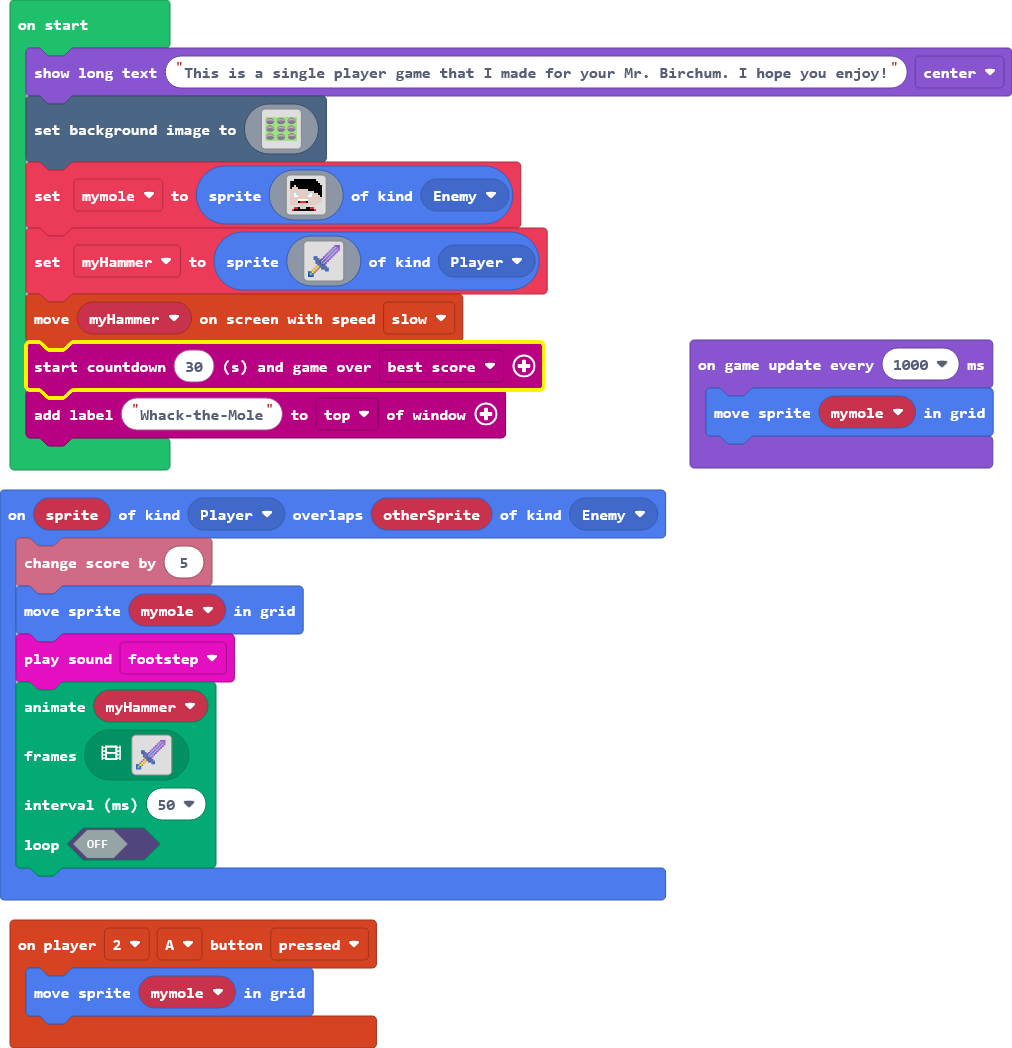
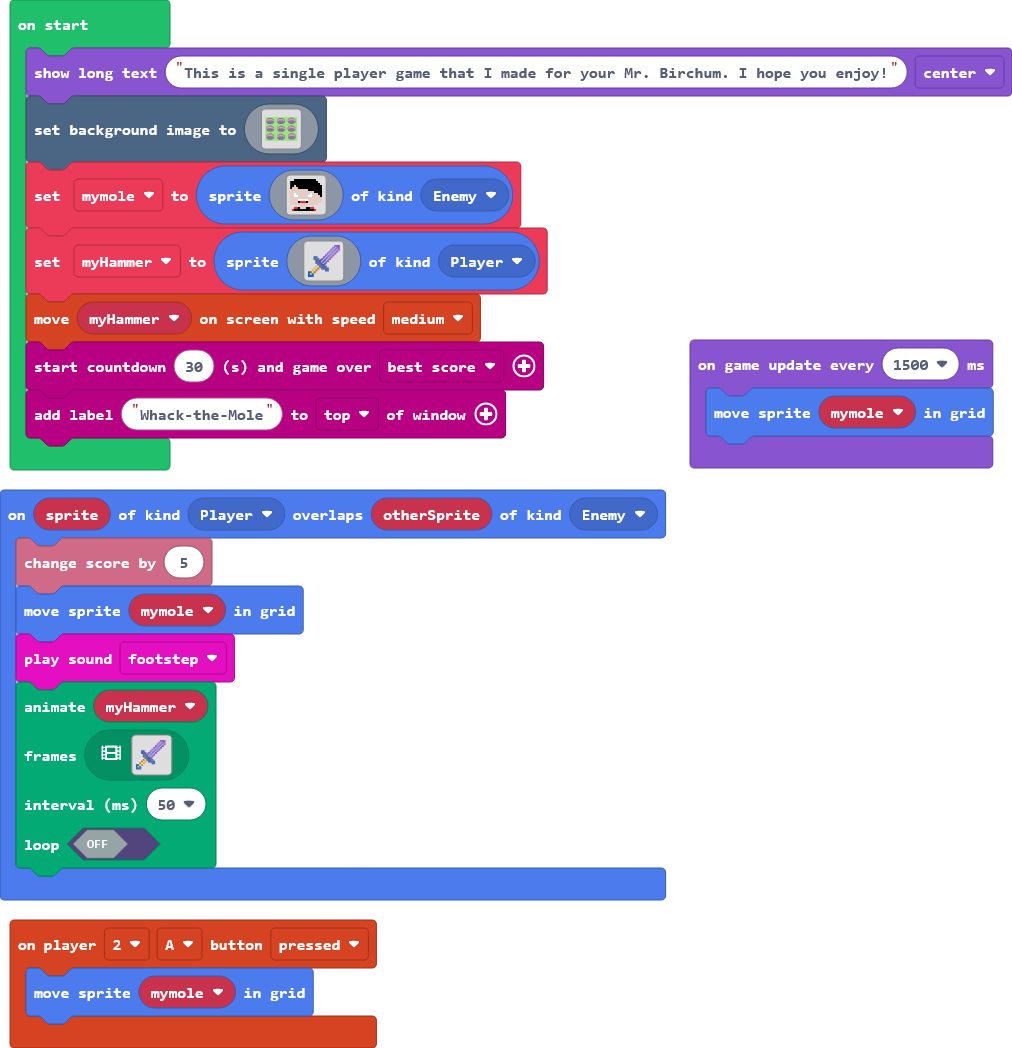
made hammer faster and moles slower

Changed region(s): [[0.0306, 0.2748, 0.5514, 0.3664], [0.0306, 0.3664, 0.5208, 0.3969], [0.0, 0.3359, 0.0306, 0.3664]]

diff --git a/main.ts b/main.ts
@@ -333,9 +333,9 @@ game.showLongText("This is a single player game that I made for your Mr. Birchum
 scene.setBackgroundImage(assets.image`grid`)
 mymole = sprites.create(assets.image`mole`, SpriteKind.Enemy)
 myHammer = sprites.create(assets.image`hammer`, SpriteKind.Player)
-simplified.moveOnlyOnscreenWithArrows(myHammer, simplified.Speeds.Slow)
+simplified.moveOnlyOnscreenWithArrows(myHammer, simplified.Speeds.Med)
 carnival.startCountdownGame(30, carnival.WinTypes.Score)
 carnival.addLabelTo("Whack-the-Mole", carnival.Areas.Top)
-game.onUpdateInterval(1000, function () {
+game.onUpdateInterval(1500, function () {
     simplified.moveToRandomHoleOnGrid(mymole)
 })
